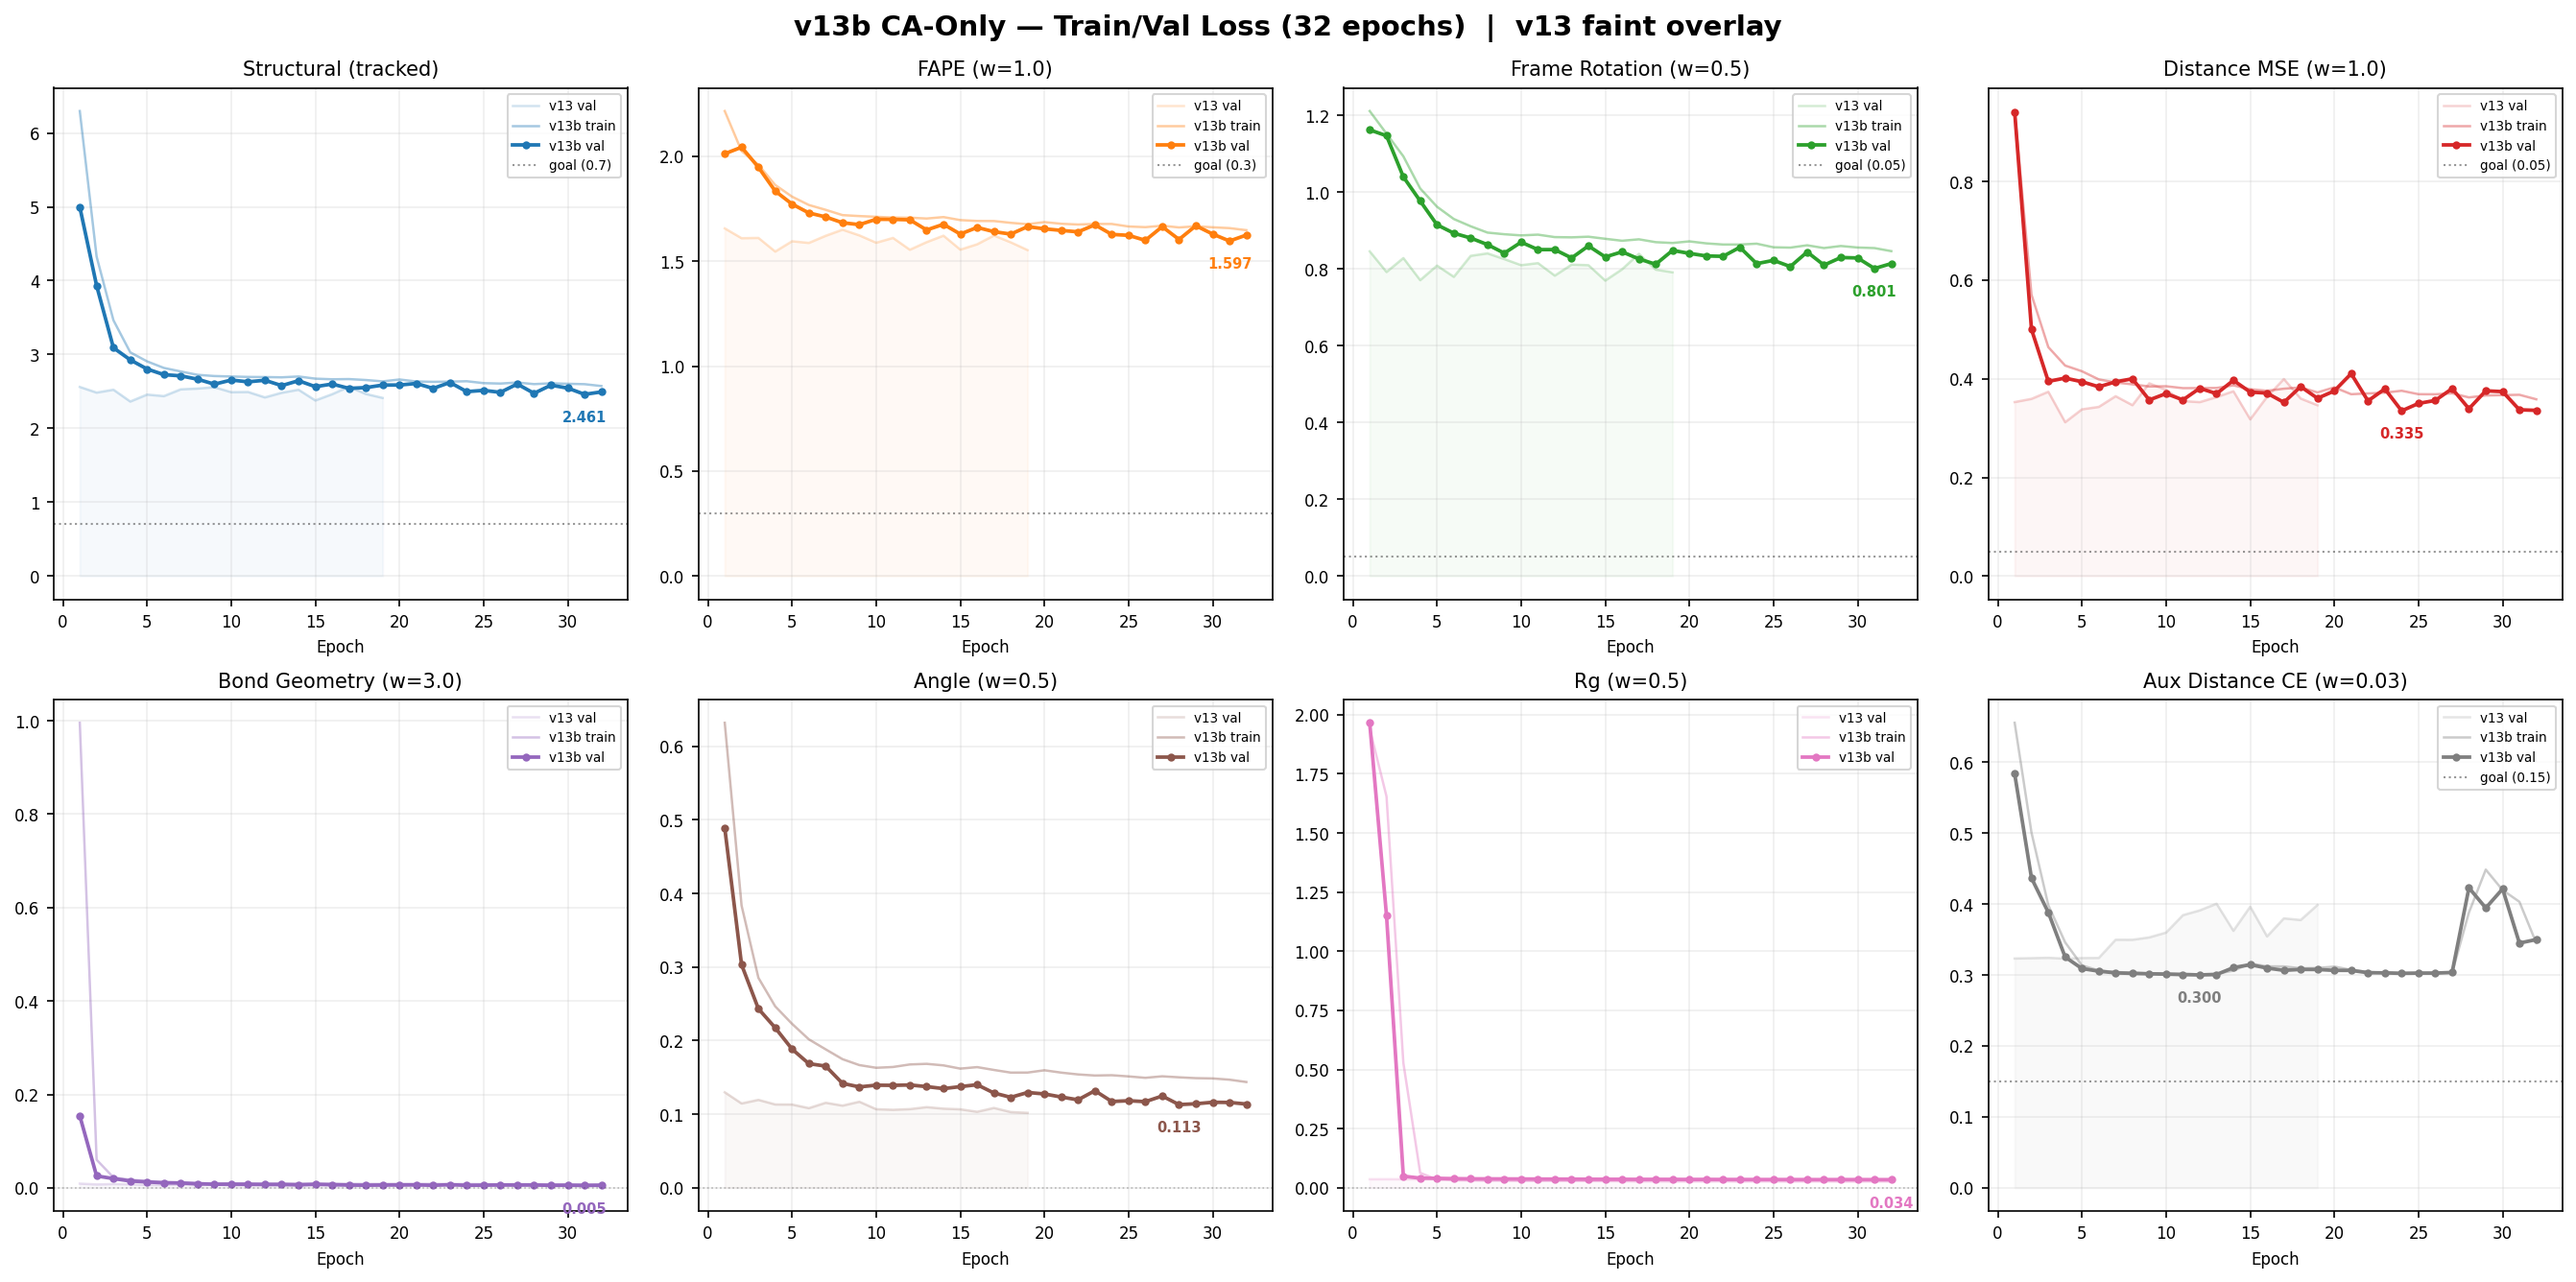
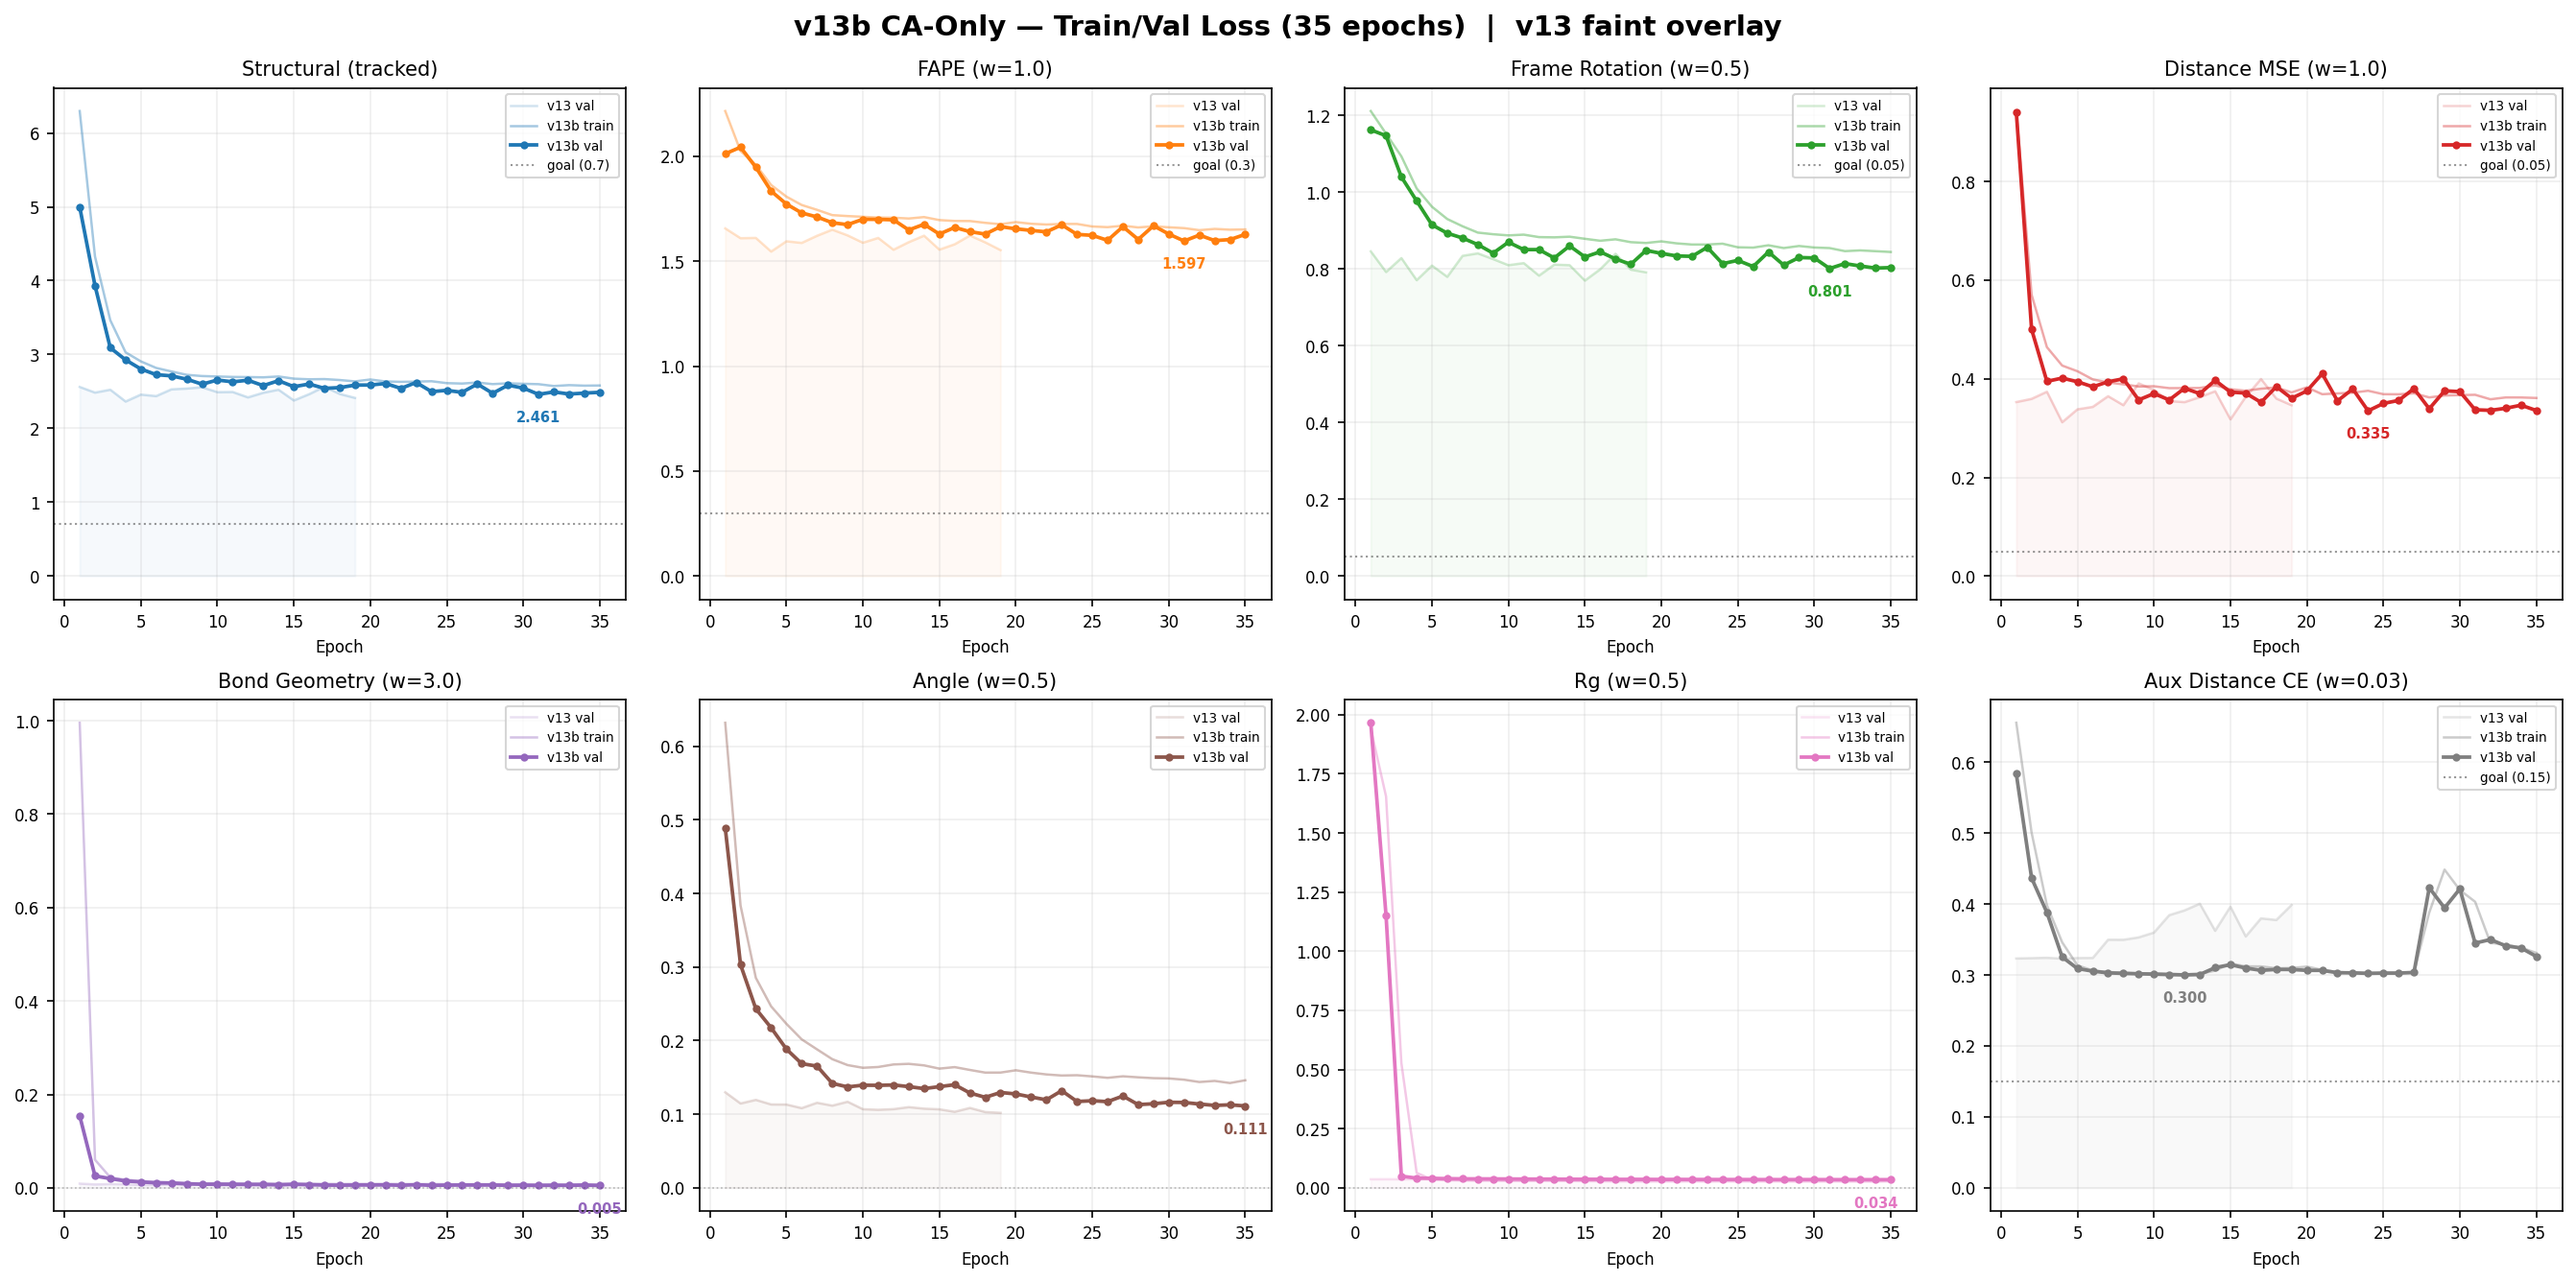
Update: v13b E33-35 (pat 4/15), v14 run3 E16-20 (pat 5/15, warmup done)
v13b: Plateau at structural 2.461, patience 4/15. Components stable.
v14 run3: LR warmup completed at E20 (2e-5). Real test starts now.

diff --git a/minifold.html b/minifold.html
@@ -194,7 +194,7 @@
       Full architecture history, training tables, loss functions, and analysis for the protein backbone diffusion model.
     </p>
     <p id="last-updated" style="color: var(--text-secondary); font-size: 13px; margin-bottom: 16px; font-style: italic;">
-      Last updated: Mar 13, 2026 at 8:45 PM PST
+      Last updated: Mar 13, 2026 at 10:00 PM PST
     </p>
 
     <div class="mf-tabs">
@@ -421,6 +421,9 @@
             <tr><td>30</td><td>2.558</td><td>2.475</td><td>1.630</td><td>0.829</td><td>0.374</td><td>0.006</td><td>0.421</td><td>0.357</td><td>0.116</td><td>0.035</td><td>&mdash;</td><td><span class="tag tag-stale">pat 2/15</span></td></tr>
             <tr><td><strong>31</strong></td><td><strong>2.471</strong></td><td style="color: #2ca02c;"><strong>2.461</strong></td><td>1.597</td><td>0.801</td><td>0.337</td><td>0.005</td><td>0.345</td><td>0.359</td><td>0.116</td><td>0.035</td><td>&mdash;</td><td><span class="tag tag-best">NEW BEST</span></td></tr>
             <tr><td>32</td><td>2.504</td><td>2.461</td><td>1.625</td><td>0.814</td><td>0.336</td><td>0.005</td><td>0.350</td><td>0.353</td><td>0.114</td><td>0.034</td><td>&mdash;</td><td><span class="tag tag-stale">pat 1/15</span></td></tr>
+            <tr><td>33</td><td>2.475</td><td>2.461</td><td>1.599</td><td>0.808</td><td>0.340</td><td>0.005</td><td>0.341</td><td>0.336</td><td>0.112</td><td>0.034</td><td>&mdash;</td><td><span class="tag tag-stale">pat 2/15</span></td></tr>
+            <tr><td>34</td><td>2.488</td><td>2.461</td><td>1.603</td><td>0.802</td><td>0.346</td><td>0.006</td><td>0.338</td><td>0.353</td><td>0.113</td><td>0.034</td><td>&mdash;</td><td><span class="tag tag-stale">pat 3/15</span></td></tr>
+            <tr><td>35</td><td>2.498</td><td>2.461</td><td>1.628</td><td>0.804</td><td>0.336</td><td>0.005</td><td>0.326</td><td>0.352</td><td>0.111</td><td>0.034</td><td>&mdash;</td><td><span class="tag tag-stale">pat 4/15</span></td></tr>
           </tbody>
         </table>
       </div>
